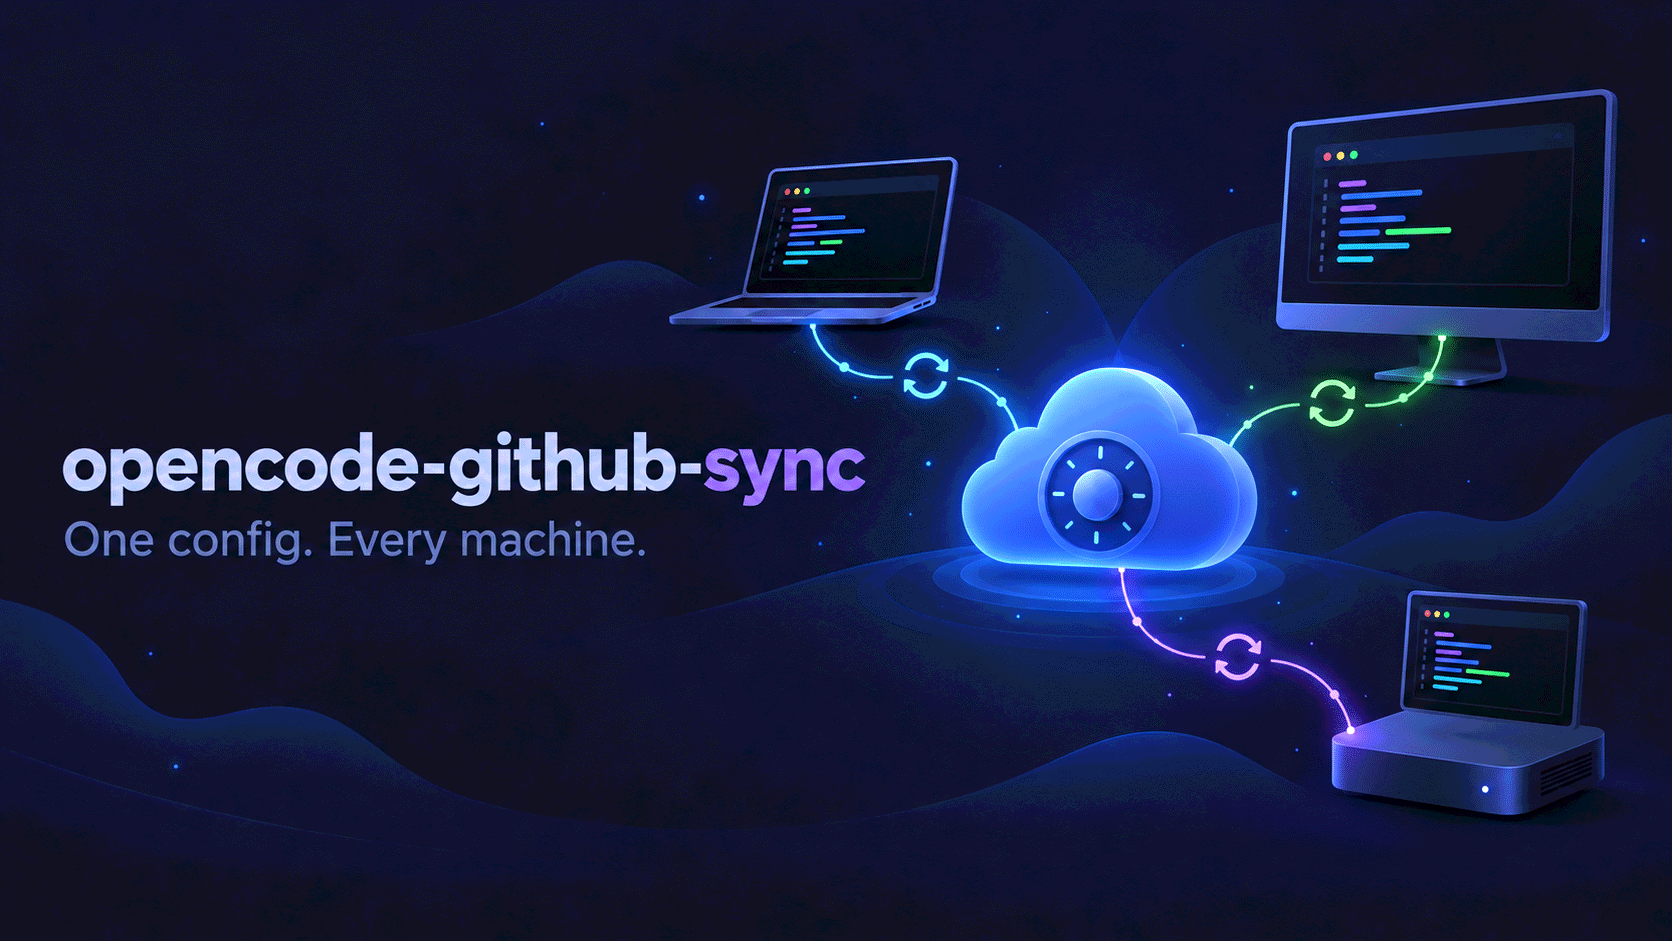
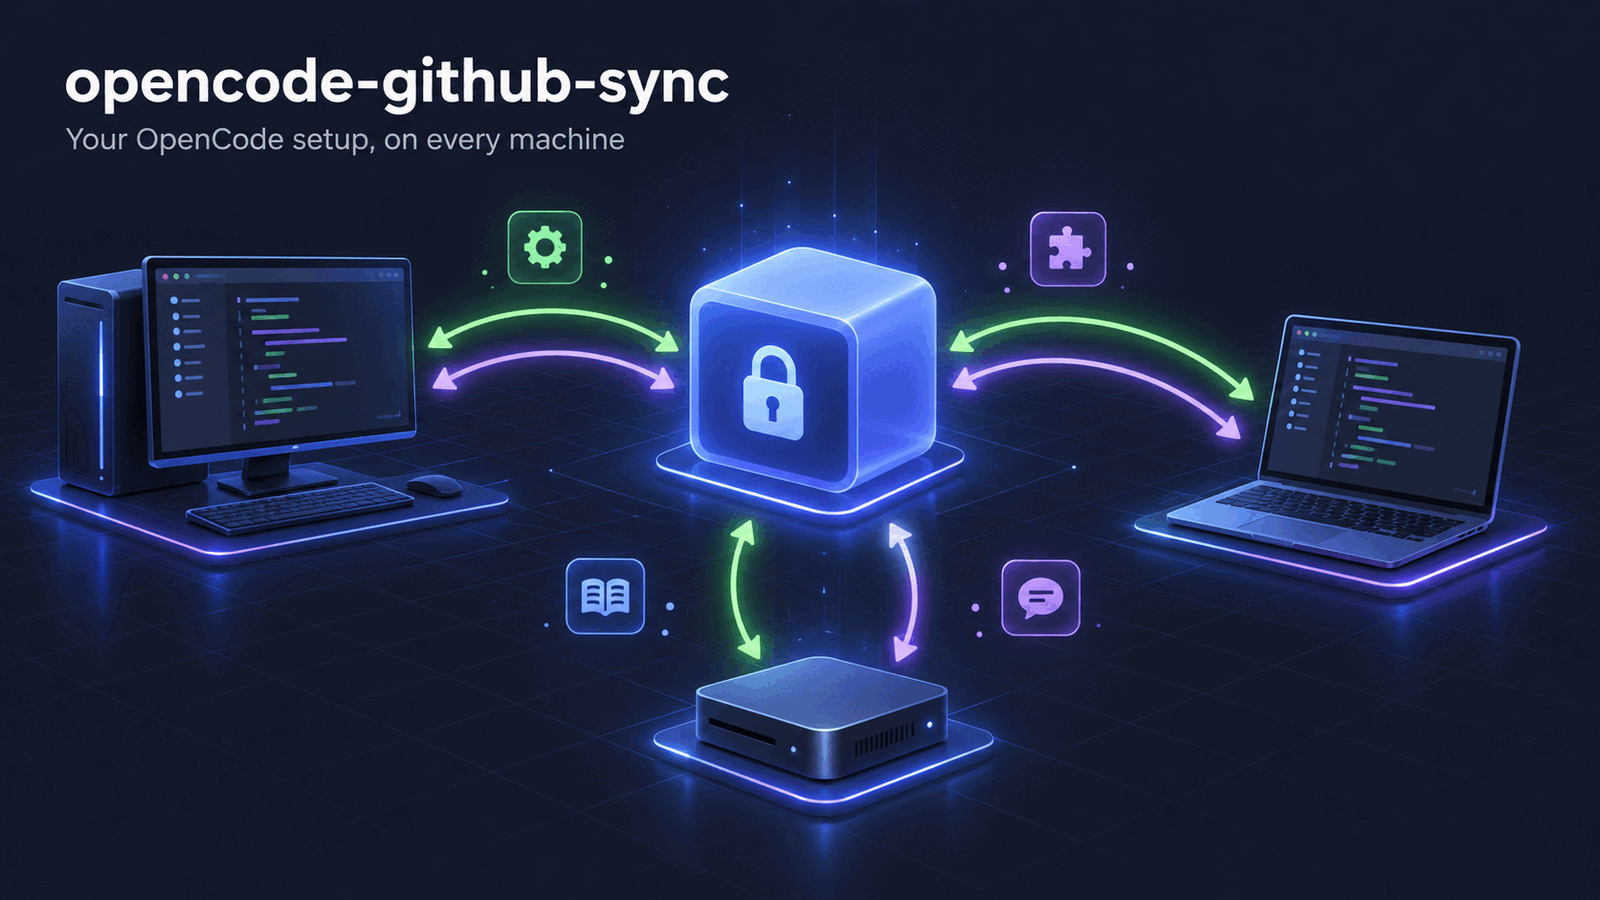
docs: plainer-worded illustrations matching the menu wording

diff --git a/README.zh-CN.md b/README.zh-CN.md
@@ -77,7 +77,7 @@ curl -fsSL https://raw.githubusercontent.com/doomsday616/opencode-github-sync/ma
 ## 选择使用方式
 
 <p align="center">
-  <img src="https://raw.githubusercontent.com/doomsday616/opencode-github-sync/main/docs/images/zh-CN/03-setup-choice.png" alt="只装命令，或者主力设备加自动同步" width="760">
+  <img src="https://raw.githubusercontent.com/doomsday616/opencode-github-sync/main/docs/images/zh-CN/03-pick-your-setup.png" alt="只装命令，或者设为自动同步的主力设备" width="760">
 </p>
 
 第一次运行 `opencode-sync` 时，它会问你这台电脑打算怎么用。
@@ -148,7 +148,7 @@ curl -fsSL https://raw.githubusercontent.com/doomsday616/opencode-github-sync/ma
 ## 自动同步是怎么工作的
 
 <p align="center">
-  <img src="https://raw.githubusercontent.com/doomsday616/opencode-github-sync/main/docs/images/zh-CN/04-autosync-timeline.png" alt="多台电脑错峰同步，忙碌时等待，出错时退避" width="760">
+  <img src="https://raw.githubusercontent.com/doomsday616/opencode-github-sync/main/docs/images/zh-CN/04-autosync.png" alt="每台电脑各自定时同步，你在编辑时会等一等，出错了过一会儿再试" width="760">
 </p>
 
 开启后，操作系统每隔几分钟、以及登录时（Windows 上还包括解锁和远程桌面重连时）运行一次 `opencode-sync autosync run`。每次只做一个判断：
@@ -223,7 +223,7 @@ opencode-sync sessions exclude ses_0ba19b4e7ffeMbSmWYi3Nj6xfZ  # 这个会话永
 ## 安全机制
 
 <p align="center">
-  <img src="https://raw.githubusercontent.com/doomsday616/opencode-github-sync/main/docs/images/zh-CN/05-safety-net.png" alt="同步锁、原子替换、恢复目录、大改动保护" width="760">
+  <img src="https://raw.githubusercontent.com/doomsday616/opencode-github-sync/main/docs/images/zh-CN/05-safety-net.png" alt="同一时间只同步一次、写入要么全成功要么不动、可找回之前的版本、大改动先拦下" width="760">
 </p>
 
 - **原子替换。** 文件先写在目标旁边，再一次性换过去。同步到一半崩溃，也不会留下写了一半、导致 OpenCode 启动不了的配置。

diff --git a/README.md b/README.md
@@ -86,7 +86,7 @@ files, setup takes the repository's version and keeps the replaced files in a
 ## Pick your setup
 
 <p align="center">
-  <img src="https://raw.githubusercontent.com/doomsday616/opencode-github-sync/main/docs/images/en/03-setup-choice.png" alt="Command only, or primary device with autosync" width="760">
+  <img src="https://raw.githubusercontent.com/doomsday616/opencode-github-sync/main/docs/images/en/03-pick-your-setup.png" alt="Command only, or primary device with autosync" width="760">
 </p>
 
 The first time you run `opencode-sync` it asks how this machine should work.
@@ -166,7 +166,7 @@ and overrides files.
 ## How autosync works
 
 <p align="center">
-  <img src="https://raw.githubusercontent.com/doomsday616/opencode-github-sync/main/docs/images/en/04-autosync-timeline.png" alt="Machines sync on a staggered schedule, wait while busy, and back off on errors" width="760">
+  <img src="https://raw.githubusercontent.com/doomsday616/opencode-github-sync/main/docs/images/en/04-autosync.png" alt="Each machine syncs on its own schedule, waits while you edit, and backs off on errors" width="760">
 </p>
 
 When autosync is on, the operating system starts `opencode-sync autosync run`
@@ -274,7 +274,7 @@ Session sync needs Node.js 22.5 or newer.
 ## Safety features
 
 <p align="center">
-  <img src="https://raw.githubusercontent.com/doomsday616/opencode-github-sync/main/docs/images/en/05-safety-net.png" alt="Lock, atomic replace, recovery folder and large-change guard" width="760">
+  <img src="https://raw.githubusercontent.com/doomsday616/opencode-github-sync/main/docs/images/en/05-safety-net.png" alt="One sync at a time, all-or-nothing writes, restore earlier versions, large-change guard" width="760">
 </p>
 
 - **Atomic replace.** Files are written beside their target and then swapped
